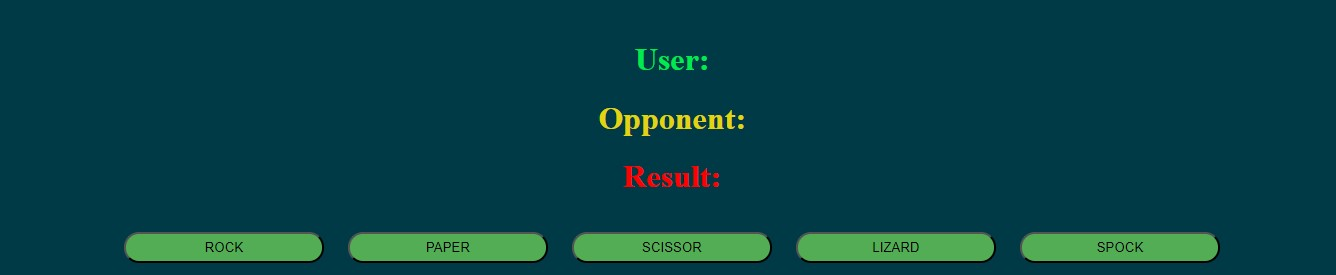
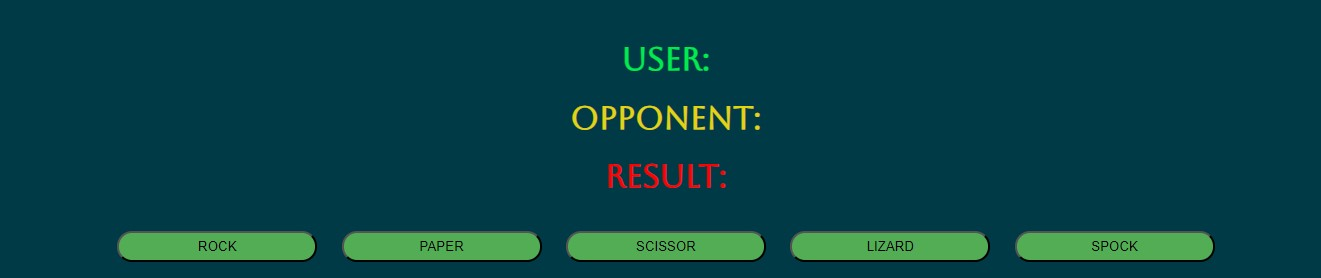
change font family

diff --git a/index.html b/index.html
@@ -6,6 +6,7 @@
     <meta name="viewport" content="width=device-width, initial-scale=1.0">
     <title>Document</title>
     <link rel="stylesheet" href="css/style.css">
+    <link href='https://fonts.googleapis.com/css?family=Aboreto' rel='stylesheet'>
   </head>
 
   <!-- Main game area -->

diff --git a/css/style.css b/css/style.css
@@ -1,6 +1,6 @@
 /*Game area structure*/
 #gameDiv {
-    font-family: 'Times New Roman', cursive;
+    font-family: 'Aboreto', sans-serif;
     border: 10px double;
     border-radius: 25px;
     padding: 25px;

diff --git a/README.md b/README.md
@@ -79,7 +79,7 @@ The game works on different platforms and is adaptive and responsive.
 
 ## Bugs
 
-I did not encounter any bugs, but I had to try different options to make the game work with the addition of lizard and spock, as the main game code was based on rock, paper, and scissors."
+I did not encounter any bugs, but I had to try different options to make the game work with the addition of lizard and spock, as the main game code was based on rock, paper, and scissors.
 
 ### Unfixed Bugs
 
